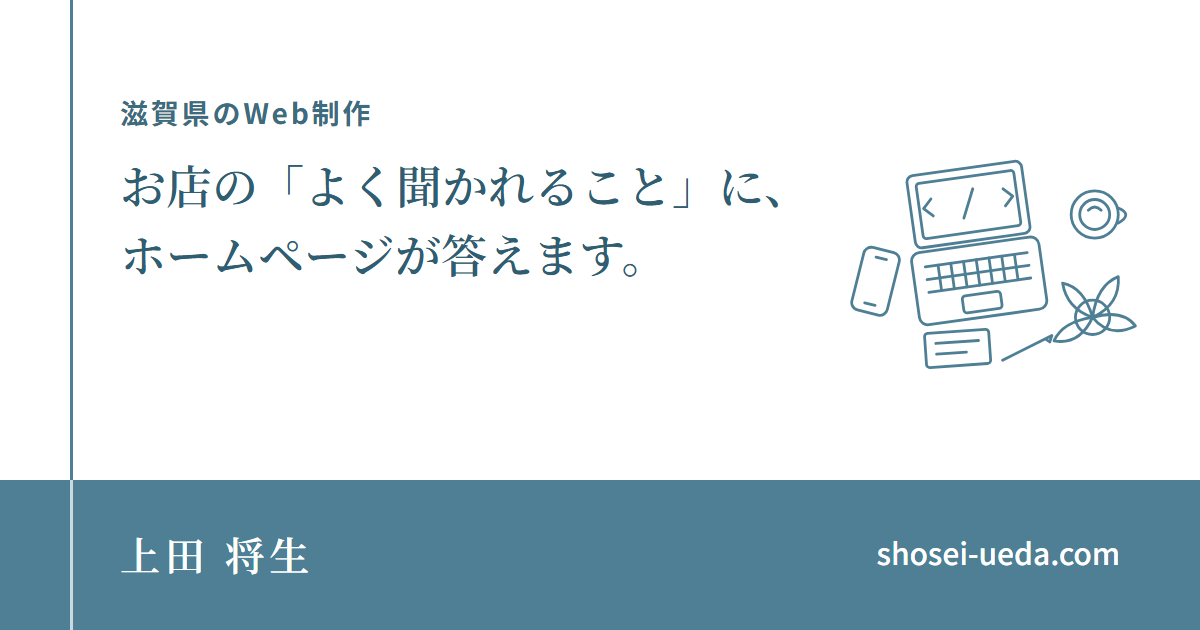
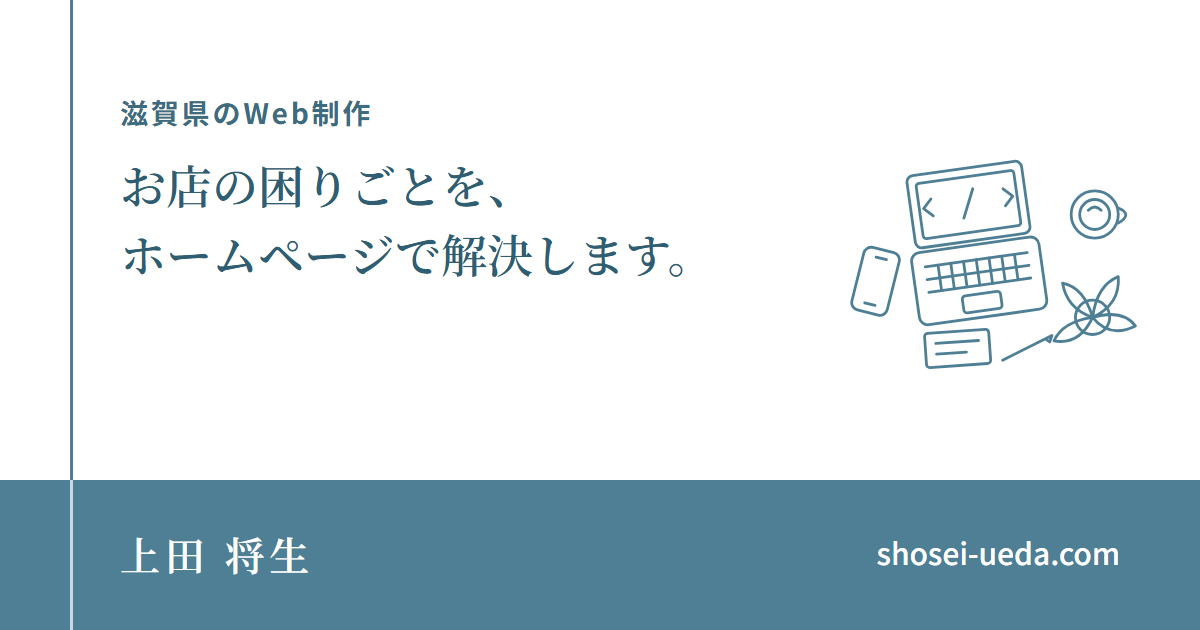
copy: トップの言葉を抽象的にし、具体例は事例の説明だけに残す
- 見出し：お店の困りごとを、ホームページで解決します。
- 説明文・お悩み4項目・進め方・私についてから、コース・駐車場・電話・Excel などの具体語を外す
- 見出しが3句になったのでアニメーションの遅延を調整、OGP 画像も新しい見出しに

Changed region(s): [[0.2158, 0.2413, 0.6475, 0.3317], [0.3083, 0.3619, 0.5858, 0.4524]]

diff --git a/src/content/site.ts b/src/content/site.ts
@@ -8,18 +8,18 @@ export const site = {
   role: "Web制作",
   area: "滋賀県",
   description:
-    "滋賀県のお店のホームページ制作。電話でよく聞かれる営業時間やコース、駐車場の場所をホームページで先に伝え、営業中の手を止めない仕組みをつくります。",
+    "お店のこと、お客さまに伝わっていますか。伝えたいことを整理して、見やすく探しやすいホームページにまとめます。滋賀県のお店のホームページ制作を、ご相談から公開まで一人で担当します。",
   // 収集ボット対策として、メールアドレスは分割して持ち、クライアント側で組み立てる
   emailUser: "shosei",
   emailDomain: "shosei-ueda.com",
 } as const;
 
-/** 「こんなお悩みはありませんか」。下の2つの事例で実際にあった困りごとから書く */
+/** 「こんなお悩みはありませんか」。誰にでも当てはまる抽象度で書き、具体例は事例（cases）にだけ書く */
 export const worries = [
-  "営業時間や定休日を、電話で何度も聞かれる",
-  "コースの内容や予約の方法を、毎回口頭で説明している",
-  "駐車場の場所が分かりにくく、問い合わせが多い",
-  "紙に書いた記録を、Excelに入力し直している",
+  "お店の魅力や情報が、お客さまに伝わっていない",
+  "同じ問い合わせの対応に、時間を取られている",
+  "ホームページが無い、または古いままになっている",
+  "記録や集計などの手作業に、手間がかかっている",
 ];
 
 export type CaseStudy = {
@@ -75,7 +75,7 @@ export const testimonials: { body: string; from: string }[] = [];
 
 export const steps = [
   { title: "ご相談", body: "メールでご連絡ください。滋賀県内ならお店に伺ってお話を聞きます。" },
-  { title: "困りごとの整理", body: "電話でよく聞かれること、伝えたいことを一緒に書き出します。" },
+  { title: "困りごとの整理", body: "お店が伝えたいことと、お客さまが知りたいことを一緒に整理します。" },
   { title: "完成イメージ", body: "1週間ほどで、スマホで実際に触れる完成イメージをお見せします。" },
   { title: "確認・修正", body: "画面を見ながら、気になるところを直していきます。" },
   { title: "公開", body: "写真や文章がそろっていれば、最短2週間で公開できます。" },
@@ -85,11 +85,11 @@ export const steps = [
 export const strengths = [
   {
     title: "原因を筋道立てて切り分ける",
-    body: "「なぜ電話が多いのか」を、聞かれる内容から整理して、ホームページで答えるべきことを決めます。",
+    body: "困りごとの原因を整理して、ホームページで解決すべきことを決めます。",
   },
   {
     title: "仮説を立てて確かめる",
-    body: "「この情報を載せれば問い合わせが減るはず」と考えたら、完成イメージで確かめてから作ります。",
+    body: "「こうすれば伝わるはず」と考えたら、完成イメージで確かめてから作ります。",
   },
   {
     title: "数字で効果を確かめる",

diff --git a/src/app/page.tsx b/src/app/page.tsx
@@ -85,10 +85,9 @@ export default function Home() {
             </p>
             {/* 語の途中で改行されないよう、句ごとに inline-block にして句の切れ目でだけ折り返す */}
             <h1 className="mt-4 font-mincho text-[clamp(1.4rem,7.3vw,1.75rem)] leading-[1.5] font-semibold text-teal-deep sm:text-[2.4rem]">
-              <span className="inline-block">お店の</span>
-              <span className="inline-block">「よく聞かれること」に、</span>
-              <span className="inline-block">ホームページが</span>
-              <span className="inline-block">答えます。</span>
+              <span className="inline-block">お店の困りごとを、</span>
+              <span className="inline-block">ホームページで</span>
+              <span className="inline-block">解決します。</span>
             </h1>
             <p className="mt-6 max-w-xl leading-loose text-muted">
               {site.description}
@@ -252,7 +251,7 @@ export default function Home() {
             <SectionHead
               eyebrow="FLOW"
               title="ご相談から公開まで"
-              lead="作り始める前に、電話でよく聞かれることやお店が伝えたいことを一緒に整理します。"
+              lead="作り始める前に、お店が伝えたいことと、お客さまが知りたいことを一緒に整理します。"
             />
             <ol className="grid gap-4 md:grid-cols-5">
               {steps.map((s, i) => (

diff --git a/src/app/globals.css b/src/app/globals.css
@@ -77,9 +77,8 @@ body {
 .hero-in h1 > span:nth-child(1) { animation-delay: 0.25s; }
 .hero-in h1 > span:nth-child(2) { animation-delay: 0.4s; }
 .hero-in h1 > span:nth-child(3) { animation-delay: 0.55s; }
-.hero-in h1 > span:nth-child(4) { animation-delay: 0.7s; }
-.hero-in > :nth-child(3) { animation-delay: 0.85s; }
-.hero-in > :nth-child(4) { animation-delay: 1s; }
+.hero-in > :nth-child(3) { animation-delay: 0.75s; }
+.hero-in > :nth-child(4) { animation-delay: 0.9s; }
 
 /* 線画：ペンで描くように線を引く（各図形 pathLength=1） */
 @keyframes draw {
